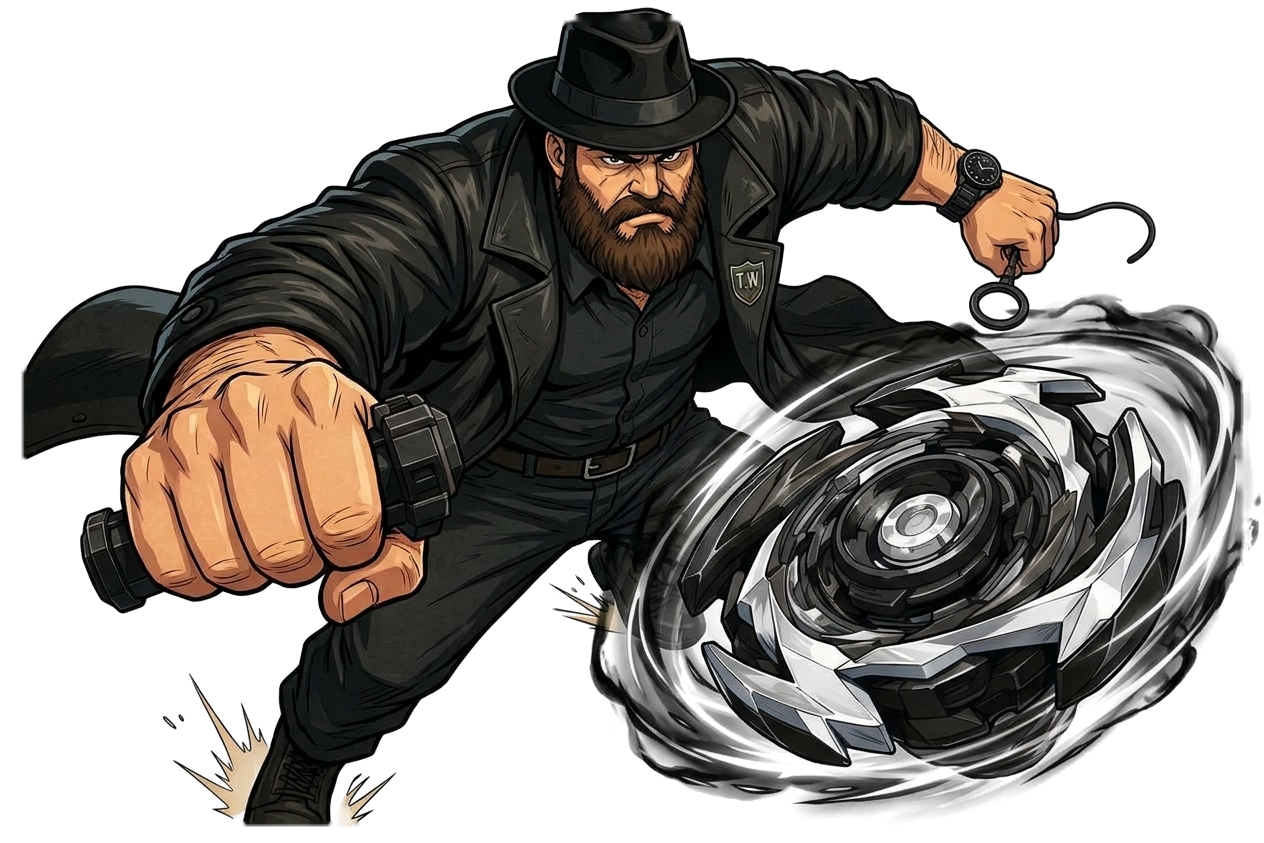
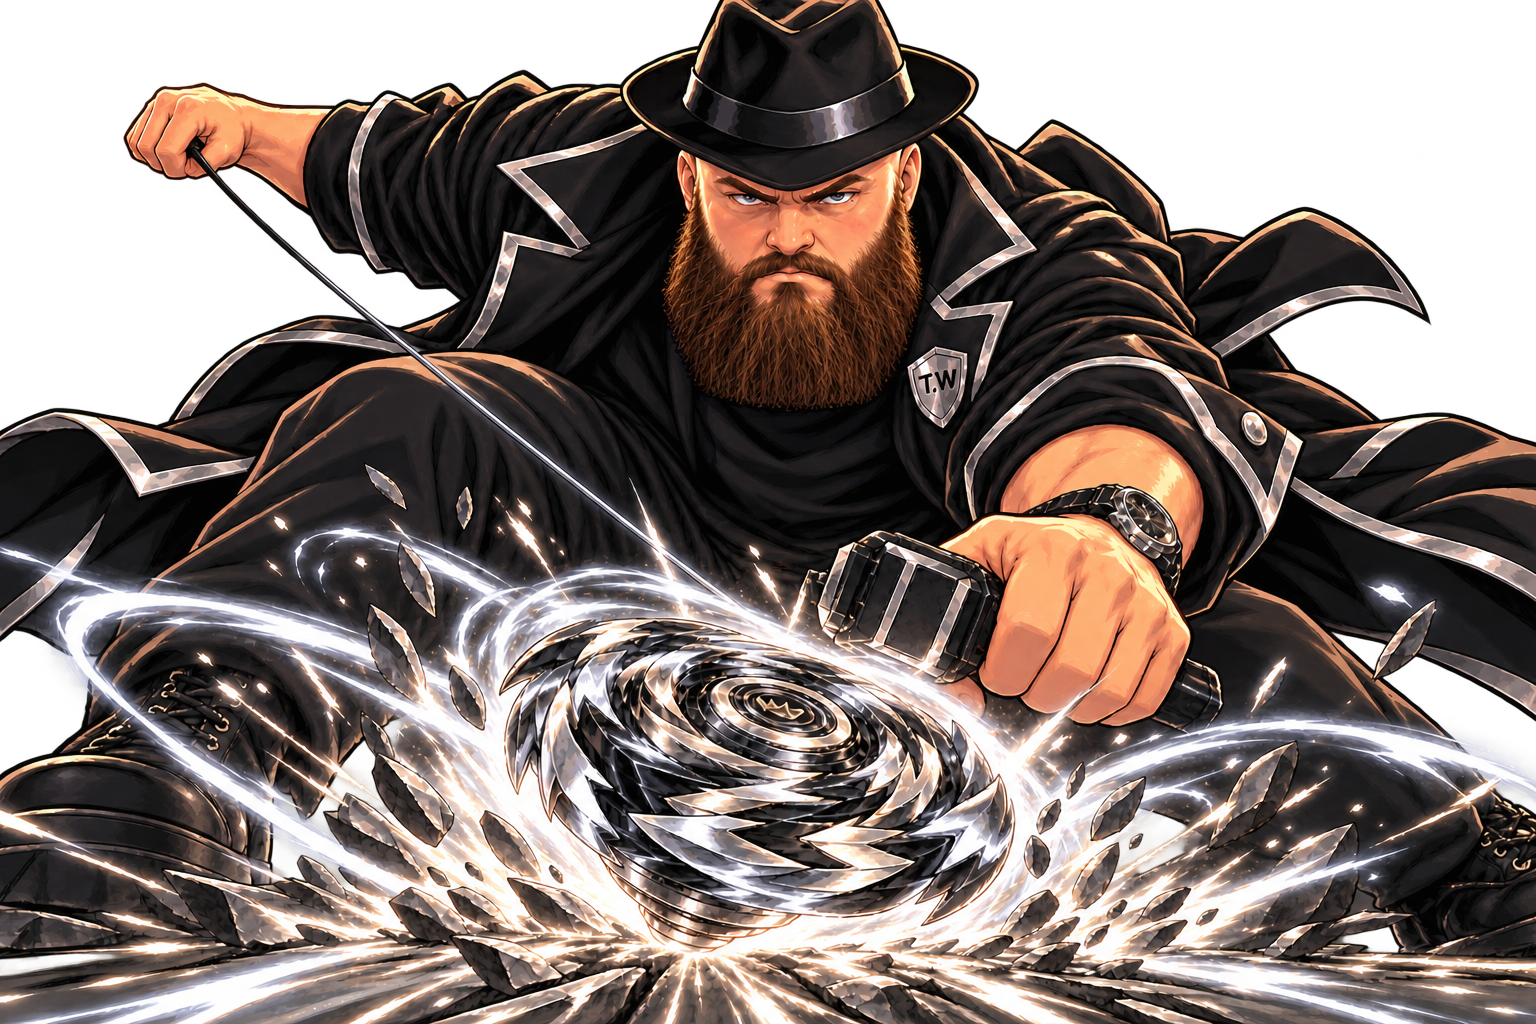
new Torque Warden starter image, T.W mirror image and face point

diff --git a/tournament-app/scripts/unflip-text.py b/tournament-app/scripts/unflip-text.py
@@ -19,7 +19,7 @@ part of it, and it reads fine either way):
 
 The Torque Warden's "T.W" coat badge (the shield's symmetric, so the whole
 badge is turned):
-  python scripts/unflip-text.py web/static/starter-fighters/torquewarden.png     web/static/starter-fighters/torquewarden-mirrored.png 747 258 747 310 22
+  python scripts/unflip-text.py web/static/starter-fighters/torquewarden.png     web/static/starter-fighters/torquewarden-mirrored.png 935 346 941 428 32
 """
 import sys
 import cv2
